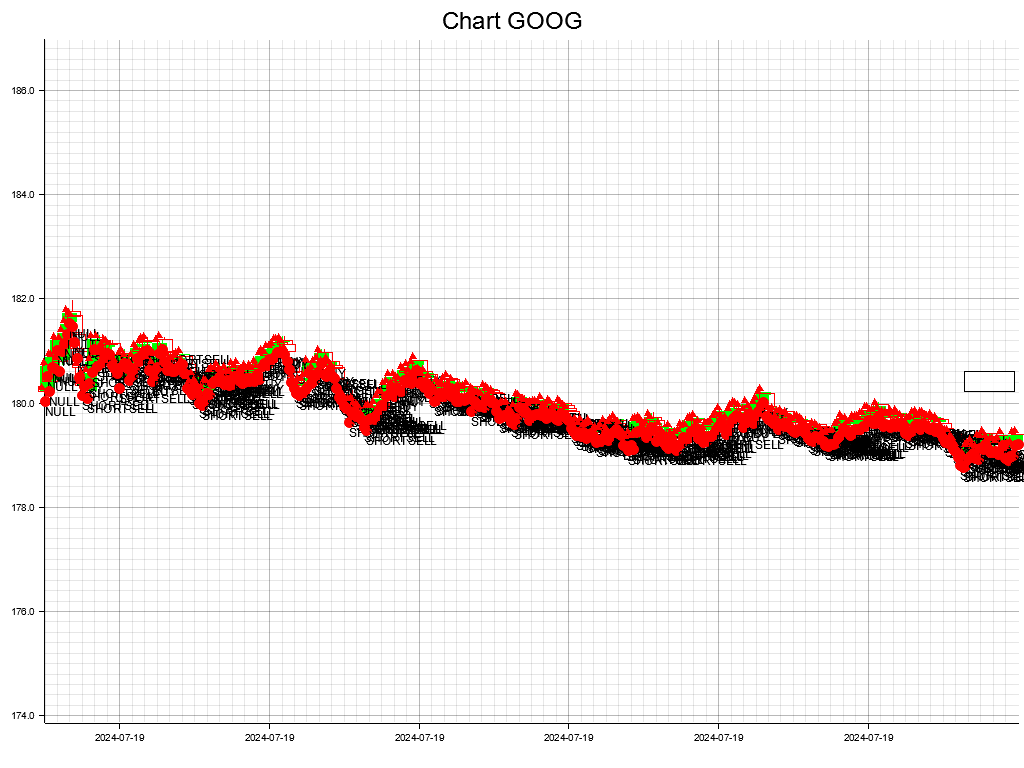
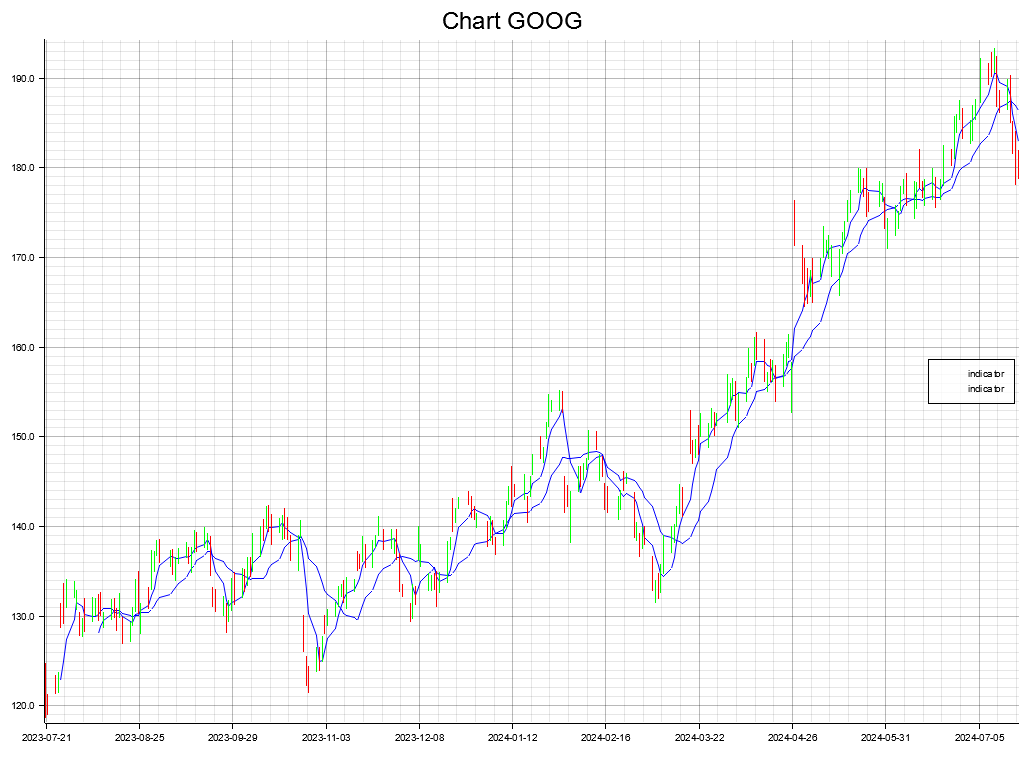
working on screener

Changed region(s): [[0.0, 0.0625, 1.0, 0.9688]]

diff --git a/src/charts.rs b/src/charts.rs
@@ -17,8 +17,8 @@ pub fn plot_old(backtest:Backtest) ->Result<(), Box<dyn std::error::Error>>{
 
     let (upper,lower) = root.split_vertically(512);
 
-    let min_lows = *lows.iter().min_by(|x,y|x.partial_cmp(y).unwrap()).unwrap()-5.0;
-    let max_highs = *highs.iter().max_by(|x,y|x.partial_cmp(y).unwrap()).unwrap()+5.0;
+    let min_lows = *lows.iter().min_by(|x,y|x.partial_cmp(y).unwrap()).unwrap()*0.985;
+    let max_highs = *highs.iter().max_by(|x,y|x.partial_cmp(y).unwrap()).unwrap()*1.025;
 
     let mut chart = ChartBuilder::on(&upper)
         .margin(5)
@@ -114,8 +114,8 @@ pub fn plot(backtest:Backtest, config:Plot_Config) ->Result<(), Box<dyn std::err
 
     let (upper,lower) = root.split_vertically(512);
 
-    let min_lows = *lows.iter().min_by(|x,y|x.partial_cmp(y).unwrap()).unwrap()-5.0;
-    let max_highs = *highs.iter().max_by(|x,y|x.partial_cmp(y).unwrap()).unwrap()+5.0;
+    let min_lows = *lows.iter().min_by(|x,y|x.partial_cmp(y).unwrap()).unwrap()*0.995;
+    let max_highs = *highs.iter().max_by(|x,y|x.partial_cmp(y).unwrap()).unwrap()*1.005;
 
     let mut chart: ChartContext<BitMapBackend, Cartesian2d<RangedDateTime<DateTime<FixedOffset>>, RangedCoordf64>>;
 
@@ -141,7 +141,7 @@ pub fn plot(backtest:Backtest, config:Plot_Config) ->Result<(), Box<dyn std::err
         let Some(indicator) = backtest.strategy().indicator() else { todo!() };
         for nr in indicator.iter() {
             let Some(index) = nr.iter().position(|&x| x != -1.0) else { todo!() };
-            let _ = chart.draw_series(LineSeries::new((index..closes.len()).map(|i| (yahoo_datetimes[i], nr[i])), &GREEN)).unwrap().label("indicator");
+            let _ = chart.draw_series(LineSeries::new((index..closes.len()).map(|i| (yahoo_datetimes[i], nr[i])), &BLUE)).unwrap().label("indicator");
         }
     }
 
@@ -158,22 +158,24 @@ pub fn plot(backtest:Backtest, config:Plot_Config) ->Result<(), Box<dyn std::err
 
     let _ = chart.draw_series(
         x.iter().map(|x| {
-            CandleStick::new(x.date,x.value1, x.value2, x.value3, x.value4, GREEN.filled(), RED, 15)
+            CandleStick::new(x.date,x.value1, x.value2, x.value3, x.value4, GREEN.filled(), RED.filled(), (500/yahoo_datetimes.len() as u32))
         }),);
 
     //add marker and label
-    for ((x, y),z) in yahoo_datetimes.iter().zip(closes.iter()).zip(backtest.orders().iter()) {
-        chart.draw_series(PointSeries::of_element(
-            vec![(*x, *y)],
-            5, // Circle marker size
-            &RED, // Red color
-            &|c, s, st| {
-                // Customize the circle marker appearance if needed
-                return EmptyElement::at(c) + Circle::new((0, 10), s, st.filled()) +
-                    Text::new(format!("{:?}", z), (0, 15), ("sans-serif", 15)) +
-                    TriangleMarker::new((-4, -4), 4, RED);
-            },
-        ))?;
+    if config.display_marker_label==true {
+        for ((x, y), z) in yahoo_datetimes.iter().zip(closes.iter()).zip(backtest.orders().iter()) {
+            chart.draw_series(PointSeries::of_element(
+                vec![(*x, *y)],
+                5, // Circle marker size
+                &RED, // Red color
+                &|c, s, st| {
+                    // Customize the circle marker appearance if needed
+                    return EmptyElement::at(c) + Circle::new((0, 10), s, st.filled()) +
+                        Text::new(format!("{:?}", z), (0, 15), ("sans-serif", 15)) +
+                        TriangleMarker::new((-4, -4), 4, RED);
+                },
+            ))?;
+        }
     }
 
     chart.configure_series_labels()
@@ -211,13 +213,15 @@ pub fn plot(backtest:Backtest, config:Plot_Config) ->Result<(), Box<dyn std::err
 pub struct Plot_Config{
     display_indic: bool,
     display_networth: bool,
+    display_marker_label: bool,
 }
 
 impl Default for Plot_Config{
     fn default() -> Self {
         Self{
-            display_indic:false,
+            display_indic:true,
             display_networth:false,
+            display_marker_label:false,
         }
     }
 }

diff --git a/src/datas.rs b/src/datas.rs
@@ -1,13 +1,15 @@
 use std::env;
-use chrono::{DateTime, FixedOffset, TimeZone};
+use chrono::{DateTime, Duration, FixedOffset, TimeZone};
 use csv::{Writer};
 use yahoo_finance_api as yahoo;
-use yahoo_finance_api::Quote;
+use yahoo_finance_api::{Quote, time};
 use tokio_test;
 //use crate::errors::Result;
 use std::error::Error;
+use yahoo_finance_api::time::macros::datetime;
+use std::str::FromStr;
 
-fn download_data(ticker:&str, interval:&str, range:&str)->Result<Vec<Quote>,Box<dyn Error>>{
+fn download_data(ticker:&str, interval:&str, range:&str) ->Result<Vec<Quote>,Box<dyn Error>>{
     let provider = yahoo::YahooConnector::new().unwrap();
     let response = tokio_test::block_on(provider.get_quote_range(ticker, interval, range)).unwrap();
     //let response = tokio_test::block_on(provider.get_quote_range("AAPL", "1d", "1mo")).unwrap();
@@ -103,4 +105,39 @@ impl Data{
     pub fn close(&self)->Vec<f64>{
         return self.close.clone();
     }
+
+    pub fn ret(&self)->f64{
+        println!("{}",self.timestamps().first().unwrap());
+        println!("{}",self.timestamps().last().unwrap());
+        println!("{}",self.close.last().unwrap());
+        println!("{}",self.close.first().unwrap());
+        return (self.close.last().unwrap()/self.open.first().unwrap()-1.)*100.;
+    }
+    pub fn ret_from_date(&self, start_date:DateTime<FixedOffset>)->f64{
+        let pos = self.datetime.iter().position(|&x|x>=start_date).unwrap();
+        return self.close[pos];
+    }
+    ///give return on given period (accepts xd(-ays) or xw(-eeks) where x is an integer)
+    pub fn ret_from_period(&self,term:&str)->f64{
+        let last_date = self.datetime.last().unwrap();
+        //let sought_date = last_date.checked_sub_signed(Duration::weeks(1)).unwrap();
+        //let term = "2w";
+        let sought_date = match term.chars().last(){
+            Some(w)=>last_date.checked_sub_signed(Duration::weeks(term[..term.len()-1].parse().unwrap())).unwrap(),
+            Some(d)=>last_date.checked_sub_signed(Duration::days(term[..term.len()-1].parse().unwrap())).unwrap(),
+            None=>*last_date,
+        };
+        println!("looking for {:}",sought_date);
+        let pos = self.datetime.iter().position(|&x|x>=sought_date).unwrap();
+        println!("date found was {:} - {:}",self.datetime[pos],self.close[pos]);
+        println!("final valuation date {:} - {:}",self.datetime.last().unwrap(),self.close().last().unwrap());
+        return (self.close.last().unwrap()/self.close[pos]-1.)*100.;
+    }
+    ///helper function to show data (datetime - close)
+    pub fn show(&self){
+        for i in 1 .. self.datetime.len(){
+            println!("{} - {}",self.datetime[i],self.close[i]);
+        }
+    }
+
 }

diff --git a/examples/chart.rs b/examples/chart.rs
@@ -5,7 +5,7 @@ use backtester::charts::{plot, Plot_Config};
 use std::error::Error;
 
 pub fn main() -> Result<(),Box<dyn Error>> {
-    let data = Data::new_from_yahoo("GOOG","1m", "1d")?;
+    let data = Data::new_from_yahoo("GOOG","1d", "1y")?;
     // TODO: calling chart with buy_n_hold or simply add possibility to chart only data;
     let strategy = sma_cross(data.clone(), 5, 15);
     let mut backtest = Backtest::new(data.clone(), strategy, 100000.);

diff --git a/examples/screener.rs b/examples/screener.rs
@@ -1,0 +1,12 @@
+use std::error::Error;
+use backtester::datas::Data;
+use chrono::{DateTime};
+
+fn main() ->Result<(),Box<dyn Error>> {
+    let quotes = Data::new_from_yahoo("NVDA","1d","1mo")?;
+    println!("{:.2}%",quotes.ret());
+    let start_date = DateTime::parse_from_rfc3339("2024-07-13T13:30:00+00:00").unwrap();
+    println!("{:.2}",quotes.ret_from_date(start_date));
+    println!("{:.2}%",quotes.ret_from_period("5d"));
+    Ok(())
+}
